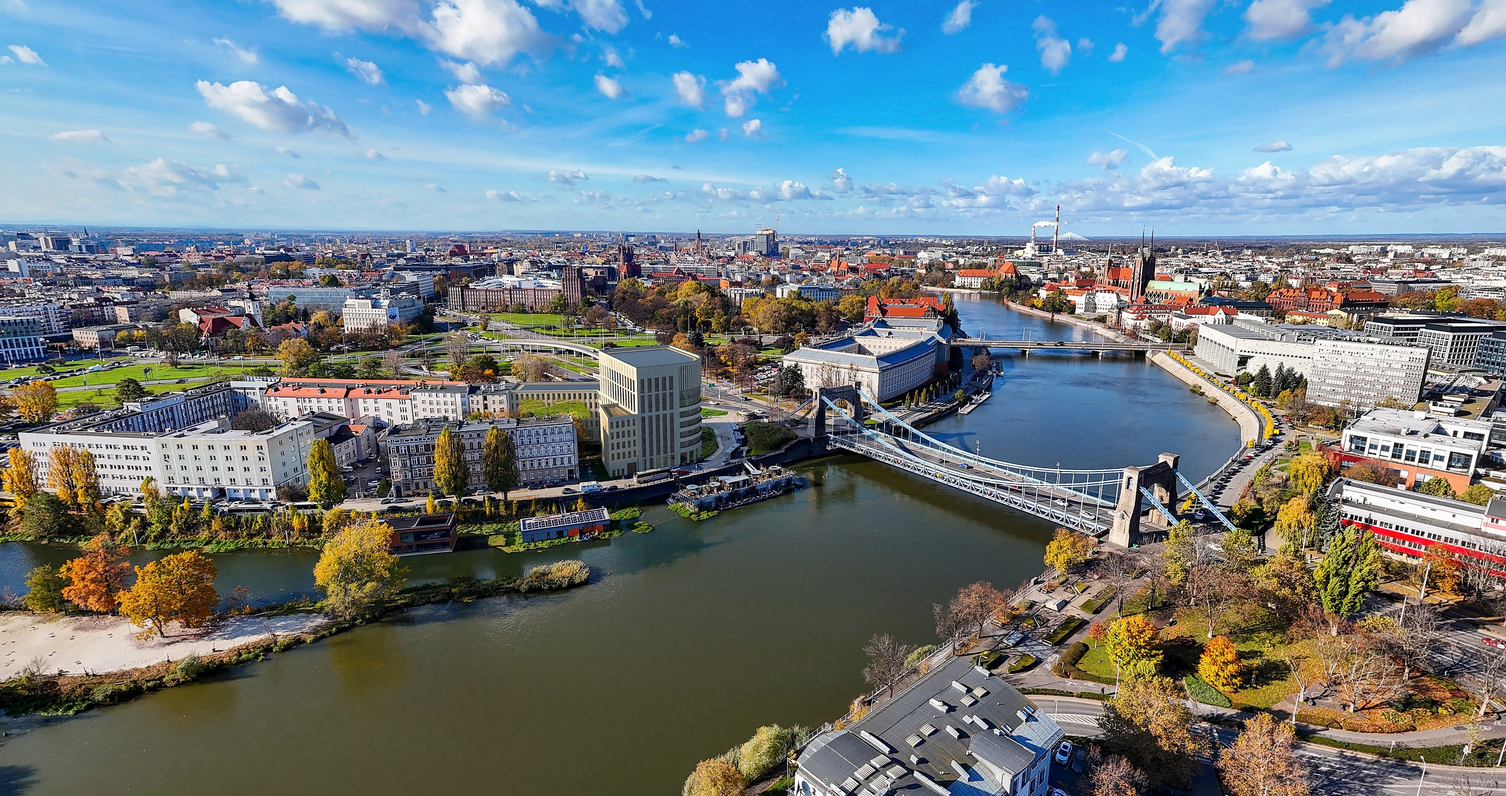
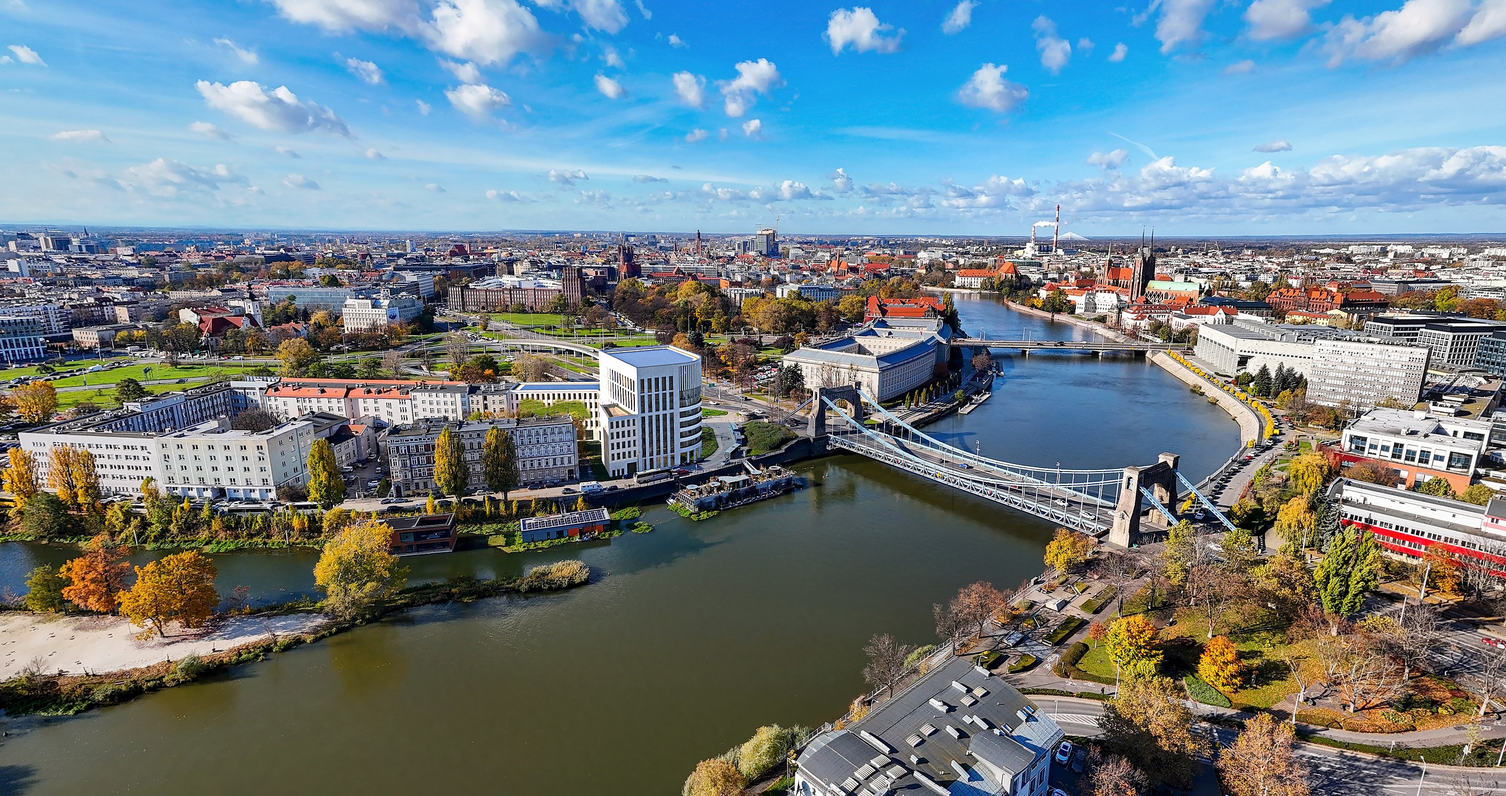
UMWD: stan pośredni (rewizja v1.1, S-2, 3D w toku)
Claude-Session: https://claude.ai/code/session_01ULAuXU15ZK9PB4XdqzfV5P

diff --git a/umwd/render/fotomatch_F17.py b/umwd/render/fotomatch_F17.py
@@ -150,9 +150,9 @@ KALIBRACJA = {
               # lico w słońcu: elewacja pd. wieży nad skrzydłem → jasność jasnej elewacji w słońcu na zdjęciu
               # (Urząd Wojewódzki ≈ 217/209/196, luma ≈ 0,82; ceramika/granit nieco jaśniejsze)
               cg_slonce=((74.61, 40.76), (113.47, 50.23), (0.12, 0.45), (22.0, 34.0)), cel_slonce=0.84),
-    # F.17.A: front Wybrzeża Słowackiego 5 (cień, elewacja wsch.) ↔ elewacja wsch. segmentu i wieży
+    # F.17.A: front Wybrzeża Słowackiego 5 (cień, elewacja wsch.) ↔ elewacja wsch. segmentu (ten sam porządek)
     'A': dict(ref=((118.55, 11.5), (118.25, 28.5), (0.2, 0.8), (4.0, 15.0)),
-              cg=((115.98, 39.93), (109.75, 65.48), (0.10, 0.70), (6.0, 18.0)), wspolczynnik=1.00),
+              cg=((115.98, 39.93), (113.48, 50.18), (0.15, 0.85), (6.0, 18.0)), wspolczynnik=1.00),
 }
 
 
@@ -334,7 +334,8 @@ def main():
         r_ref = f_l[m_ref].mean(0)
         r_cg = rgb[m_cg].mean(0)
         wb = ((r_ref / lum(r_ref[None])[0]) / (r_cg / lum(r_cg[None])[0])) ** 0.6
-        wb = (wb / lum(wb[None])[0]).astype(np.float32)
+        wb = (wb / lum(wb[None])[0])
+        wb = np.clip(wb, 0.92, 1.08).astype(np.float32)          # tylko lekka korekta barwy
         print('[foto] kalibracja: sąsiad sRGB %.3f → cel %.3f; gain %.4f, k %.3f; WB %s' % (ref_l, cel, gain, k_kompr,
                                                                                     np.round(wb, 3)))
     elif Lc_ok := (lum(rgb)[sel].size > 200):

diff --git a/umwd/docs/20_koncepcja/rejestr_poprawek_v1_1.md b/umwd/docs/20_koncepcja/rejestr_poprawek_v1_1.md
@@ -10,29 +10,29 @@
 | ID | Waga | Decyzja v1.1 | Dowód liczbowy (skrypt) | Rysunki / tabele do zmiany | Status |
 |---|---|---|---|---|---|
 | **PARK** | **KRYT.** (koordynator; model pomieszczeń: 37–41 m.p. wobec 109) | **Podstawa PU (PN-ISO 9836):** PU = suma pomieszczeń kategorii PU modelu pomieszczeń = **8 850,37 m²** (F.15.A / F.15.C I.12; bez powierzchni ruchu RU 4 342, usługowej US 590, garażowej PG 2 334 m²), w tym bistro 88,47 m². **Wymagane (MPZP § 13):** 12/1 000 × (8 850,37 − 88,47) + 6/1 000 × 88,47 = 105,67 → **106 m.p.**; odczyt ostrożny (całe PU × 12 + bistro osobno) 107 + 1 = **108**; PU programu 8 582 → 103. **Rozwiązanie:** (1) −2 pod całym obrysem poza M1 przy Maz. 19 (wieża + segment + pas 5 m + skrzydło od s 12,15; 2 101 m²); (2) −1 podwyższona do 4,20 m (posadzka 115,10, w świetle 3,65 m), −2 na 112,10 (w świetle 2,70 m); (3) siatka słupów wieży v = 0 / 8,70 / 16,00 / 23,15 / 29,70 (słupy poza drogami, w licach ścian korytarzy – usuwa też kolizję słupów z korytarzami wskazaną przez model pomieszczeń), stanowiska w trójkach 3 × 2,50 m między słupami u co 8,10 m – bez belek transferowych; (4) rampa wewn. −1/−2 w kieszeni wsch. wieży (u 34,6–38,5; 18 %; 19,7 m), rampa uliczna jednopasowa przy ścianie pn. segmentu (18 %; 25,2 m); (5) technika: tryskacze nieobowiązkowe (`ppoz.md` pkt 7, rozdz. 7.3) – pompownia usunięta; agregat → segment kond. 1; dźwig T → narożnik SE segmentu; centrala P → kond. 1 (pas zach. wieży); centrala S, GPC, sanitariaty MDS, woda szara przy trzonach (bilans pomieszczeń w skrypcie); (6) **stackery zależne 2-poziomowe bez zagłębienia** (16 jednostek podwójnych 5,0 m) wyłącznie w 5 rzędach na −1, dla pracowników z przydziałem parami (goście, OzN, dostawy, EV szybkie – stanowiska zwykłe). **Wynik: 81 stanowisk na posadzce + 32 w stackerach = 113 pozycji; po 6 stanowiskach OzN 3,60 m → 110 m.p. ≥ 106 (zapas 4) / ≥ 108 (zapas 2)**. Woda gruntowa: −2 pod skrzydłem – wypór 61 kPa (117,0) / 81 kPa (119,0) < 0,9 × 110 kPa ciężaru stałego skrzydła; pas pod dziedzińcem – mikropale (121,5 m²); ściany szczelinowe 0,60 m do glin (19 m) bez zmian zasady. Koszt w E-K-1 | `_rewizja_parking.py` (układ stanowisk w shapely, spójność dróg, bilans pomieszczeń technicznych; rysunek kontrolny `--png`) | rzuty −1, −2 (P3), przekroje A-A, B-B (P6), tabela 12, F.15.C, JSON `podziemie`, `siatka` | ✅ |
-| G-K-1 | KRYT. | (w toku) | | | ⏳ |
-| G-K-2 | KRYT. | (w toku) | | | ⏳ |
-| G-I-1 | IST. | (w toku) | | | ⏳ |
+| G-K-1 | KRYT. | **Wariant A** (bez zmiany współrzędnych): na licach < 0,30 m od granicy obszaru – wieża pn. (0,253 m), skrzydło zach. (0,000), skrzydło pd. przy Maz. 19 (0,000), dziób pn. skrzydła (0,285), segment wsch. (0,239) – **gzyms-attyka bez wysięgu** (granit 0,70 m w licu), cień dają **fryz wklęsły 0,15 m** pod gzymsem (linia 139,45) i fuga 0,30 m przy Maz. 19; relief filarów M2–M4 jako **cofnięcie wypełnień** 0,08/0,15/0,08 m za lico filarów (lico filarów = obrys); wysięg 0,30 m tylko na licach dziedzińcowych (wsch. skrzydła, zach. segmentu); wieża – zakaz jakiegokolwiek wysięgu na wszystkich licach (linia A i granica, G-D-4). Trakt skrzydła 15,00 = 0,47 + 6,08 + 0,10 + 1,70 + 0,10 + 6,08 + 0,47 (pokój 24,02 m²) | `_rewizja_geometria.py` (pkt 3), `_rewizja_elewacje.py` (pkt 3) | 4.1, 8, przekrój 1:50 (P7), JSON `elewacje.skrzydlo` | ✅ |
+| G-K-2 | KRYT. | Próg +0,30 usunięty. **Próg bramy 119,10 (−0,20)** = chodnik (NMT 119,10–119,15) + **samoczynna zapora przeciwpowodziowa do 120,30** we wnęce bramy, odwodnienie liniowe i pompownia. Spadek od lica: 3,0 m × 9 % + 18 % → przy licu zach. segmentu posadzka −3,35, **wierzch stropu −0,77 = 118,53** (0,40 m pod terenem istniejącym 118,93; 0,72 m pod 119,25). Rampa częściowo pod segmentem, ogon (u 14,8–21,0) pod dziedzińcem – w całości poniżej terenu | `_rewizja_geometria.py` (pkt 4) | 2 (13), 2 (f), 5, 9, przekrój A-A, JSON `podziemie.rampa` | ✅ |
+| G-I-1 | IST. | **Rampa jednopasowa 3,50 m** z sygnalizacją wahadłową **wzdłuż ściany pn. segmentu** (v −0,35…−3,85), **brama 4,0 m w licu wsch. na v −0,40…−4,40** (6KDB/2; okno lok. 6/6A 17,4 m od krawędzi bramy). Pas obsługi przy ścianie pd.: 93,3 m² brutto / 79,7 m² netto ≥ trafo 21 + rozdzielnia 17 + BESS 11 + odpady 7 + szyb T 7,3 = 63,3 m²; drzwi trafo i odpadów od Wybrzeża (pełne), wentylacja trafo kanałem do lica zach. segmentu | `_rewizja_geometria.py` (pkt 4) | rzut parteru (segment), JSON `parter.segment` | ✅ |
 | G-I-2 | IST. | Bilans wg **numeracji i położeń M.06** (położenia z wektorów PDF załącznika, georeferencja do D701/D702, ±0,5–1 m). Pas −1 pod dziedzińcem **7,0 → 5,0 m** (wierzchołki (72,001; 34,975), (96,193; 40,872)). Nr 58 (Z1): 5,45 m od lica −1 ≥ 4,2 + 1,0 ✔ – zachowany. **Nr 60 (Z2) – usuwany (kolizja)**, nasadzenie zastępcze; lica skrzydła nie przesuwamy (traktu 15,0 m nie da się zwęzić bez utraty pokoi 24 m²). Nr 78 (Z1) – zachowany z ochroną (2,99 m; wejście w strefę 0,11 m). **Usuwane kolizyjnie 8:** 1, 2 (obszar A), 60, 61 (1,3 m od ściany szczelinowej), 67 (Z1 = D897), 79, 80, 81 (Z2, w obrysie skrzydła = D867/D868/D882); **przesadzana 1:** 72 (P); **sanitarnie (U, martwe/zamierające, decyzja arborysty – niezależnie od inwestycji) 10:** 5, 13, 18, 19, 20, 38, 53, 57, 59, 62; **zachowane w miejscu 25** (w tym wszystkie Z1 poza 67 i wszystkie Z2 poza 60, 79–81). Zachowane 36 z 44 (82 %) bez usunięć sanitarnych / 26 z 44 (59 %) po usunięciach sanitarnych. **Nowe nasadzenia 26** (4 lipy – skwer, 6 – szpaler Wybrzeża, 2 – pas 4,6 m, 14 – ogród na gruncie rodzimym, poza stropem garażu) | `_rewizja_drzewa.py` (wynik: `_rewizja_drzewa_wynik.json`) | plan zagospodarowania 1:500, rozdz. 9, 10, JSON `zagospodarowanie` | ✅ |
-| G-I-3 | IST. | (w toku) | | | ⏳ |
-| G-I-4 | IST. | (w toku) | | | ⏳ |
-| G-I-5 | IST. | (w toku) | | | ⏳ |
+| G-I-3 | IST. | Ściany szczelinowe **0,60 m** (wykop 8 m rozparty stropami), **222,6 m × 19 m** do glin QpB. **Przy Maz. 19 (15,0 m): ściana z kolumn iniekcji strumieniowej Ø 1,2 m** (siecznie, styczne do granicy, kształtowniki co 2. kolumna, okładzina żelbetowa 0,30 m) z **podbiciem fundamentu szczytu** (kolumny pod odsadzką; po stronie sąsiada – zgoda właściciela/zarządcy Maz. 19, art. 47 Pb), poprzedzone odkrywkami; lico −1 1,20 m od granicy; monitoring, bez wibracji, bez kotew. **Granica z dz. 8/8 (60,2 m): lico zewn. ściany 0,15 m od granicy** (tolerancja wykonania + odchyłka pionu 0,5 % × 19 m), zewnętrzna ściana prowadząca tymczasowo w chodniku Mazowieckiej – zajęcie pasa drogowego za zezwoleniem ZDiUM (art. 40 udp), rozbierana po oczepie; to samo na licu pn. wieży (0,25 m) i wsch. segmentu (0,24 m) – ściany prowadzące 0,20 m. Brak kotew gruntowych poza granicą | `_rewizja_geometria.py` (pkt 5), `_rewizja_koszt.py` (pozycja iniekcji) | 5 („Posadowienie”), JSON `siatka.posadowienie` | ✅ |
+| G-I-4 | IST. | `bryly[M].obrys_ccw` wg tabeli 4.1 (dziób z łukiem R 3,5, bez kolca), CCW, poprawny, **849,65 m²**; PZ **2 165,8 m² (58,1 %)**; nagłówek 4.1 „CCW (jak JSON)”. Strefy parteru skrzydła przycięte do M: foyer/szatnia/WC/magazyn 138,2 m² (−20,1 w wieży), **bistro 82,4 m² brutto** (sala 62 + zaplecze 20; magazyn 10 m² do M4) | `_rewizja_geometria.py` (pkt 1) | 4.1, 6 (parter), JSON `bryly`, `zabudowa`, `parter.skrzydlo` | ✅ |
+| G-I-5 | IST. | Pojemność elewacji wg suchej próby modelu pomieszczeń: kond. 1–4 po 43 j., **kond. 5 – 22, kond. 6 – 20** (łuk zajmuje gabinet Przewodniczącego z zapleczem i asystentem). Jednostki w narożu wklęsłym segment/wieża (G-D-9) – pomieszczenia pomocnicze. „Rezerwa 3,2 j.” i „20/20 magazynków jako głębokie 7 szt.” usunięte z opisu; rozmieszczenie – P-I2 | rzuty modelu (`docs/70_rysunki/rzuty_raport.md`) | 6 (pojemność), JSON `kondygnacje_biurowe.pojemnosc_jedn` | ✅ |
 | E-K-1 | KRYT. | Ilości weryfikatora przyjęte w całości (ościeża filarów wieży i okien skrzydła, pale CFA 504 mb, ściana na uskoku −1/−2, dry-cooler, przepusty GPC) + skutki garażu 110 m.p. (A_pod 4 365 m², wykop śr. 7,92 m, ściany szczelinowe 222,6 m × 19 m) + wszystkie pozycje spoza modelu objęte KS 3 % i rezerwą. Dźwignie projektowe (efekt, mln z KS i rezerwą): ościeża wieży 0,60 granit → 0,45 blacha Al −1,80; ościeża skrzydła → blacha Al −0,58; cokół skrzydła → ceramika −0,09; lamele 450 → 240 m² −0,18; BESS 250 → 150 kWh −0,24; ściany szczelinowe 0,80 → 0,60 m −0,91; pole sond 58 × 91 m −0,24; nawierzchnie granit 1 050 → 500 m² −0,30; ogródki – pielęgnacja −0,20; elewacje dziedzińcowe skrzydła i segmentu – tynk mineralny −0,49; dźwig C1 – szyb rezerwowy −0,65; lapidarium −0,22; rampy jednopasowe −0,15. **Wynik (mid, II kw. 2026): roboty + KS 142,08; rezerwa 5 % (≥ 4 %) 7,10; razem 149,18 mln ≤ 150 (zapas 0,82 mln); przy rezerwie 4 % – 147,76 (zapas 2,24)**. Wskaźniki: 8 003 zł/m² PC (pasmo 7 400–9 300 ✔), 16 856 zł/m² PU (pasmo 11 400–14 900 – powyżej; PC/PU 2,11: garaż MDS 2 kond., hole, sala Sejmiku). Low/high 109,6 / 207,7; waloryzacja +5 % od kosztu całkowitego 156,7. Rezerwa na S2: +110 m² PC antresoli. Dźwignie rezerwowe niewłączone: filary elewacji pd. wieży (dziedziniec) ceramika −0,23; BESS 100 kWh −0,12 | `_rewizja_koszt.py` (wejście: `_rewizja_koszt_wejscie_v1_1.json`) | tabela 12, rozdz. 2 (17), 16.5, F.14.B, JSON `bilans` | ✅ |
 | E-K-2 | KRYT. | Dachy (BIPV jako pokrycie, wykładnia K-05 utrzymana) dają realnie **351 kWp** < 400: wieża 948 m² netto (attyka 0,50 + pas 1,0 m, wyłaz, wpusty, zwody) × 0,215 = 204 kWp; skrzydło 685 m² (attyka 0,52 + pas 0,5 m, przerwa 1,0 m, wyłaz) × 0,215 = 147 kWp; gęstość 0,215 kWp/m² = η 22,5 % × pokrycie 0,955 (warunek przetargowy η ≥ 22,5 %). Uzupełnienie legalne i widoczne, wszystko ≤ 25 m i poza elewacjami od ulic: płyciny wieży od dziedzińca (38 × 2,145 m², bez czerpni) 11 kWp; **ściana pd. segmentu BIPV** (295 m², od dz. 10/2) 41 kWp; **zadaszenie tarasu ogrodowego** przy elewacji pd. wieży (80 m², BIPV półprzezierne) 13 kWp. **Razem 415 kWp (zapas 15 kWp), 328 MWh/rok; PV/EPB 111 %, PV/całość 51 %; EP 28,0 (bez PV 60); emisje EPB 6,7 kg/(m²·rok)**. Wrażliwość: przy η 21 % → 391 kWp (dlatego wymóg η ≥ 22,5 %) | `_rewizja_pv_ep.py` (uruchamia `40_prawo/_bilans_energii.py`) | rozdz. 2 (20), 8, 10, 15, P8 (KPI), JSON `elewacje.PV`, `bilans` | ✅ |
-| E-I-1 | IST. | (w toku) | | | ⏳ |
-| E-I-2 | IST. | (w toku) | | | ⏳ |
-| E-I-3 | IST. | (w toku) | | | ⏳ |
-| E-I-4 | IST. | (w toku) | | | ⏳ |
-| E-I-5 | IST. | (w toku) | | | ⏳ |
-| E-I-6 | IST. | (w toku) | | | ⏳ |
-| E-I-7 | IST. | (w toku) | | | ⏳ |
+| E-I-1 | IST. | **Dry-cooler hybrydowy 2 × 150 kW na kond. 4 segmentu (pas zach., ≈ 35 m²)**, żaluzje akustyczne 2 × 12 m² w licu zach. segmentu (dziedziniec) na kond. 3–4 (≈ 1,1 m/s), tłumiki; 9,0 m w poziomie od czerpni zbiorczej. Szczyt chłodu ≈ 600 kW = GPC 330 + dry-cooler 300 (+ przesunięcie TABS); nadwyżka gruntu 166 MWh/rok – dry-cooler + odzysk do c.w.u. + napływ wód gruntowych (piaski połączone z Odrą). Usługi z pasa → strefa środkowa wieży | `_rewizja_geometria.py` (pkt 6); `_bilans_energii.py` (nadwyżka) | 10, rzut kond. 3–4 segmentu | ✅ |
+| E-I-2 | IST. | **58 sond w siatce 6,0 × 6,0 m pod płytą −2** (2 088 m² ≤ 2 101 m²), L = 91 m od spodu płyty 110,90 → dno 19,9 m n.p.m. = **≤ 99,5 m pod terenem** (118,36–119,44) – poza reżimem art. 86 PGiG niezależnie od przyjętego odniesienia; + **ściany szczelinowe energetyczne** 4 229 m² × 15 W/m² = 63 kW + **36 pali energetycznych** 504 mb × 40 W/m = 20 kW + sondy 5 278 mb × 45 W/m = 238 kW → **321 kW** = wymagany pobór (428 kW grzania przy COP 4). Kolektory w warstwie podpłytowej, 2 przejścia szczelne do maszynowni (−2 przy trzonie B). Węzeł ciepłowniczy – rezerwa/szczyt 0,3 MW; Odra – odrzucona (`strategia_energetyczna.md`). TRT na 2 otworach próbnych | `_rewizja_koszt.py` (mb), `_rewizja_pv_ep.py` (wydruk `_bilans_energii.py`) | 5, 10, przekrój P6 (sondy do 19,9 m n.p.m.) | ✅ |
+| E-I-3 | IST. | Lokalizacja wszystkich otworów (nic na dachu i na elewacjach od ulic/bulwaru): **spaliny agregatu i oddymianie/wentylacja garażu** – szacht w trzonie B (miejsce po dźwigu T) → lamele korony od pd. (≥ 10 m od okien komisji); **powietrze agregatu** – żaluzje 8 m² w licu zach. segmentu, kond. 1; **wentylacja trafo** – kanał do lica zach. segmentu (parter/kond. 1), drzwi od Wybrzeża pełne; **bistro bez kuchni gorącej** (regeneracja), wyciąg z odzyskiem do instalacji ogólnej; **czerpnia zbiorcza** – 2 rzędy płycin (P/1, 1/2) u 2–12 na elewacji pd. wieży = 17 m² (≈ 1,25 m/s), wyłączone z BIPV; **piony** 2,7 + 1,4 + 3,5 m²/kond. w strefie środkowej; **czerpnie nadciśnienia klatek** – elewacja pd. wieży, parter, ≥ 5 m od czerpni zbiorczej; **dry-cooler** – E-I-1; **filtrowentylacja ukrycia** – czerpnia z lameli korony (≥ 120,30). Odległość wyrzutni korony od czerpni: 21 m w poziomie + 29 m w pionie | `_rewizja_geometria.py` (pkt 6) | 6, 8, 10, elewacje dziedzińcowe | ✅ |
+| E-I-4 | IST. | **Agregat HVO → kond. 1 segmentu (124,10 m n.p.m.)**, wzmocniony strop, przewód spalin do korony. **Tryskacze nie są projektowane** (nieobowiązkowe: budynek W biurowy, garaż 2-kondygnacyjny – `ppoz.md` 7.3; dojścia ZL I/ZL III spełnione bez zwiększeń) → pompownia i zbiornik tryskaczowy usunięte. Technika krytyczna nad 119,0: trafo, rozdzielnia, BESS – parter 119,30 (+ cokoły 0,30); UPS i serwerownia – kond. 1; agregat – kond. 1. Biała wanna: otwory ≥ 120,30, zapora bramy do 120,30 | `_rewizja_geometria.py` (pkt 6) | 2 (d), 6, JSON `podziemie` | ✅ |
+| E-I-5 | IST. | Skrzydło i segment: **parapet 0,60 + kwatera stała ze szkła bezpiecznego do 0,90, okno 1,20 × 2,35**, nadproże 2,95, kaseta ZIP do 3,13 ≤ 3,20 ✔, WWR 37,1 %; pochwyt ochronny 1,10 m w świetle ościeży (WT § 301). Wieża: **parapet 0,55 + kwatera stała**, okno 1,65 × 2,45, nadproże 3,00, kaseta do 3,18 ≤ 3,32 ✔, WWR 39,9 % | `_rewizja_elewacje.py` (pkt 1) | 8, przekrój 1:50, JSON `elewacje` | ✅ |
+| E-I-6 | IST. | Wieża: granit 40 / pustka 40 / **wełna 260 λ 0,033** / żelbet 200, **konsole ze stali nierdzewnej z przekładką** (ΔU 0,025) → **U 0,147**; skrzydło i segment: ceramika 40 / pustka 40 / **wełna 240 λ 0,031** (R ≈ 7,7 ≈ 260 mm λ 0,033) / żelbet 150, konsole nierdzewne punktowe (ΔU 0,020) → **U 0,144**; ściana 0,47 m mieści się w trakcie 15,00 m (pokój 6,08 m, korytarz 1,70 m). Ościeża: wieża 0,45 m, skrzydło 0,35 m (blacha Al) | `_rewizja_elewacje.py` (pkt 2–3) | 8 (tabela 1:50), 10 | ✅ |
+| E-I-7 | IST. | Lamele korony **0,35 × 0,60 m** (R 13,40–14,00), **rozstawy 1,35 / 0,675 m w ciągu Fibonacciego** (brak okresu dominującego; 21 lameli na łuku 22 m, średnio 1,08 m), **ton w ton**: lamela ceramiczna S 4005-Y20R + sitodruk ceramiczny 30 % na szkle → ΔL* ≈ 8 ≤ 15; przesłonięcie w osi 32 %, **pełne od 59,0°** (spec. v1.0 „34°” błędne – było 47,3°). Szkło korony na R 13,40 (G-D-5; rzut sali – S2) | `_rewizja_elewacje.py` (pkt 4) | 2 (5), 8, JSON `elewacje.luk` | ✅ |
 | E-I-8 | IST. | „Metoda 2” przemianowana na „spójność z pasmem kalibracji (nie jest niezależną kontrolą)”; podane obie miary: **8 003 zł/m² PC** i **16 856 zł/m² PU** (PU 8 850,37 wg PN-ISO 9836) z pasmami i wyjaśnieniem PC/PU 2,11; waloryzacja +5 % liczona od kosztu całkowitego (156,7) | `_rewizja_koszt.py` | tabela 12 | ✅ |
-| E-I-9 | IST. | (w toku) | | | ⏳ |
-| P-I2 | IST. | (w toku) | | | ⏳ |
-| P-I3 | IST. | (w toku) | | | ⏳ |
-| P-I5 | IST. | (w toku) | | | ⏳ |
-| P-I6 | IST. | (w toku) | | | ⏳ |
-| P-I8 | IST. | (w toku) | | | ⏳ |
+| E-I-9 | IST. | **Skrzynki rozsączające 60,2 m² × 1,15 m = 65,8 m³** pod nawierzchnią przepuszczalną w pasie 4,6 m pd. od segmentu (12,9 m od najbliższego drzewa M.06), **dno ≥ 117,45** (1,0 m nad ZWG maks. 116,45; teren 118,97–119,16), wymiana nasypu pod skrzynkami, badanie k przed PB; rezerwa 20 m³ zbiornika na −2 opróżniana pompą do skrzynek po 24 h. Warunek zapasowy: k < 1·10⁻⁶ m/s → dławik ≤ 2 dm³/s i hasło „odpływ ograniczony do 2 dm³/s”. Retencja 66 + 20 + 42 + 10 + 19 = **157 m³** = 2,2 × V60 (70 m³) | `_rewizja_geometria.py` (pkt 7) | 9, 10, plan zagospodarowania | ✅ |
+| P-I2 | IST. | Rozmieszczenie wg pojemności 43/43/43/43/22/20 (model pomieszczeń): **kond. 6** – KS 8 + **gabinety Wiceprzewodniczących 3 × 24 m²** (zakres programu 24–40) + **sala spotkań KS.05a 48 m² przy elewacji** (2 j.) + DRA 7 (DYR, SAM 2, 5.1 ×2, 5.2 → kond. 5 jak w modelu) = 20 j.; łuk: KS.01 48 + KS.02 8 + KS.03 24; **kond. 5** – DSS 19 + DRA 5.2 (2) = 21 ≤ 22; sala narad i 3 magazynki z kond. 5 → 4, 2, 1 (jak w modelu). Miejsca oczekiwania KS.06 i DRA.OCZ jako otwarte wnęki przy holu dźwigów kond. 6 (nie na kond. 4). Zdanie o „rezerwie 3,2 j.” usunięte | rzuty modelu, `_weryfikacja_program.py` S3 | 6 (tabela rozmieszczenia), JSON `kondygnacje_biurowe` | ✅ (do potwierdzenia w modelu pomieszczeń) |
+| P-I3 | IST. | **WC ≥ 380 m²** (model pomieszczeń: 397,7 m² ✔): parter ogólnodostępne ≥ 30 m² + komfortka 12 (u 15,65–21,0 × v 15,0–20,85, kosztem hali); kond. 1–4 zespoły ≥ 24 m² (nieoświetlony pas zach. wieży) + zespół przy trzonie C; kond. 5–6 ≥ 26 m²; −1 WC dostępne w sanitariatach MDS; S – `kondygnacja_S2.md`. PU w bilansie 8 850 m² obejmuje WC 397,7 m² | tabela modelu (`build/tabele/kontrola.md`) | 6, 11, 12 | ✅ |
+| P-I5 | IST. | **Dźwig T 2 000 kg → własny szyb w narożniku SE segmentu** (u 36,9–39,2 × v −9,7…−6,45; przystanki −2…4; na parterze przy drzwiach od Wybrzeża – punkt odpadów i dostawy ręczne). **Trzon B** = klatka + przedsionek + P1 + P2 (≈ 55 m² ≤ 58,75) + szacht spalin agregatu/wyrzutu garażu/pionów centrali S (≈ 4 m²). **P1, P2, A1, A2: 1 600 kg, kabiny 1,5 × 2,1 m** (M.13), A1/A2 przelotowe. Hol przed P1/P2 na kond. 1–6: 2,2 m (WT § 195 ≥ 1,6 ✔; M.13 3,6 – świadome odstępstwo z uzasadnieniem), przed A1/A2 ≥ 3,6 m. Bar S obsługują A2/P1 poza sesją. Dźwig C1 – szyb w stanie surowym (rezerwa) | `_rewizja_parking.py` (szyb T), `_rewizja_koszt.py` | 5 (trzony), JSON `rdzenie` | ✅ |
+| P-I6 | IST. | MDS 560 os.: **−2 (ukrycie) ≤ 300 os.** – wyjścia klatkami A i B; **−1 (MDS) 260 os.** – klatka C, rampa uliczna i **szyb wyjścia zapasowego (91,75; 32,00)** z tunelem 7,6 m od lica −1 (12,6 m od wieży ≥ H/3 = 12,5 m; 19,3 m od skrzydła; 8,4 m od segmentu; poza ogródkami; 7,1 m od najbliższego drzewa M.06). **Sanitariaty MDS 30 m² z WC dostępnym** na −1 pn. od trzonu A (też WC dostępne garażu); WC ukrycia 15 m² na −2; woda awaryjna | `_rewizja_geometria.py` (pkt 7), `_rewizja_parking.py` (pomieszczenia), `_rewizja_drzewa.py` | rzuty −1/−2, 12 (MDS), JSON `podziemie` | ✅ |
+| P-I8 | IST. | Jedna sala spotkań KS (KS.05a, 48 m²) **przy elewacji kond. 6**; druga (KS.05b, 44 m²) w strefie środkowej kond. 6 – przeszklona do holu i doświetlona pośrednio przez pokój narożny, z jawnym uzasadnieniem (sala okresowego użytku; uzgodnienie z PWIS) – już nie na kond. 4 | jw. P-I2 | 6, JSON `kondygnacje_biurowe` | ✅ (do potwierdzenia w modelu pomieszczeń) |
 | KOORD-1 | IST. | PU = **8 850,37 m²** (model pomieszczeń, PN-ISO 9836: pomieszczenia kategorii PU; RU, US, PG wyłączone) zamiast „≈ 8 400” – w bilansie (rozdz. 12, JSON `bilans.PU_m2`), w wymaganiu parkingowym (106 / ostrożnie 108) i we wskaźniku zł/m² PU | `_rewizja_parking.py`, `_rewizja_koszt.py` | tabela 12, F.15.C | ✅ |
 | KOORD-2 | IST. | Rezerwa (contingency) 5 % w koszcie bazowym, wymóg ≥ 4 % spełniony; wariant 4 % pokazany kontrolnie | `_rewizja_koszt.py` | tabela 12 | ✅ |
 | KOORD-3 | IST. | Ścieżki ogrodu (101 m² na zachowanych ogródkach) – **przeprowadzone poza poligonem ogródków** (obrzeżem, wzdłuż granicy ogródków, na podbudowie przepuszczalnej poza strefami korzeni); w ogródkach wyłącznie istniejące ścieżki i trawnik (bez korytowania, M.06 rozdz. 6). Zachowane ogródki w bilansie: 469,5 m² jako teren biologicznie czynny | `_rewizja_drzewa.py` (strefy), rozdz. 9 | plan zagospodarowania 1:500 (`tools/zagospodarowanie.py` – do przerysowania ścieżek) | ✅ (opis); rysunek do aktualizacji |
